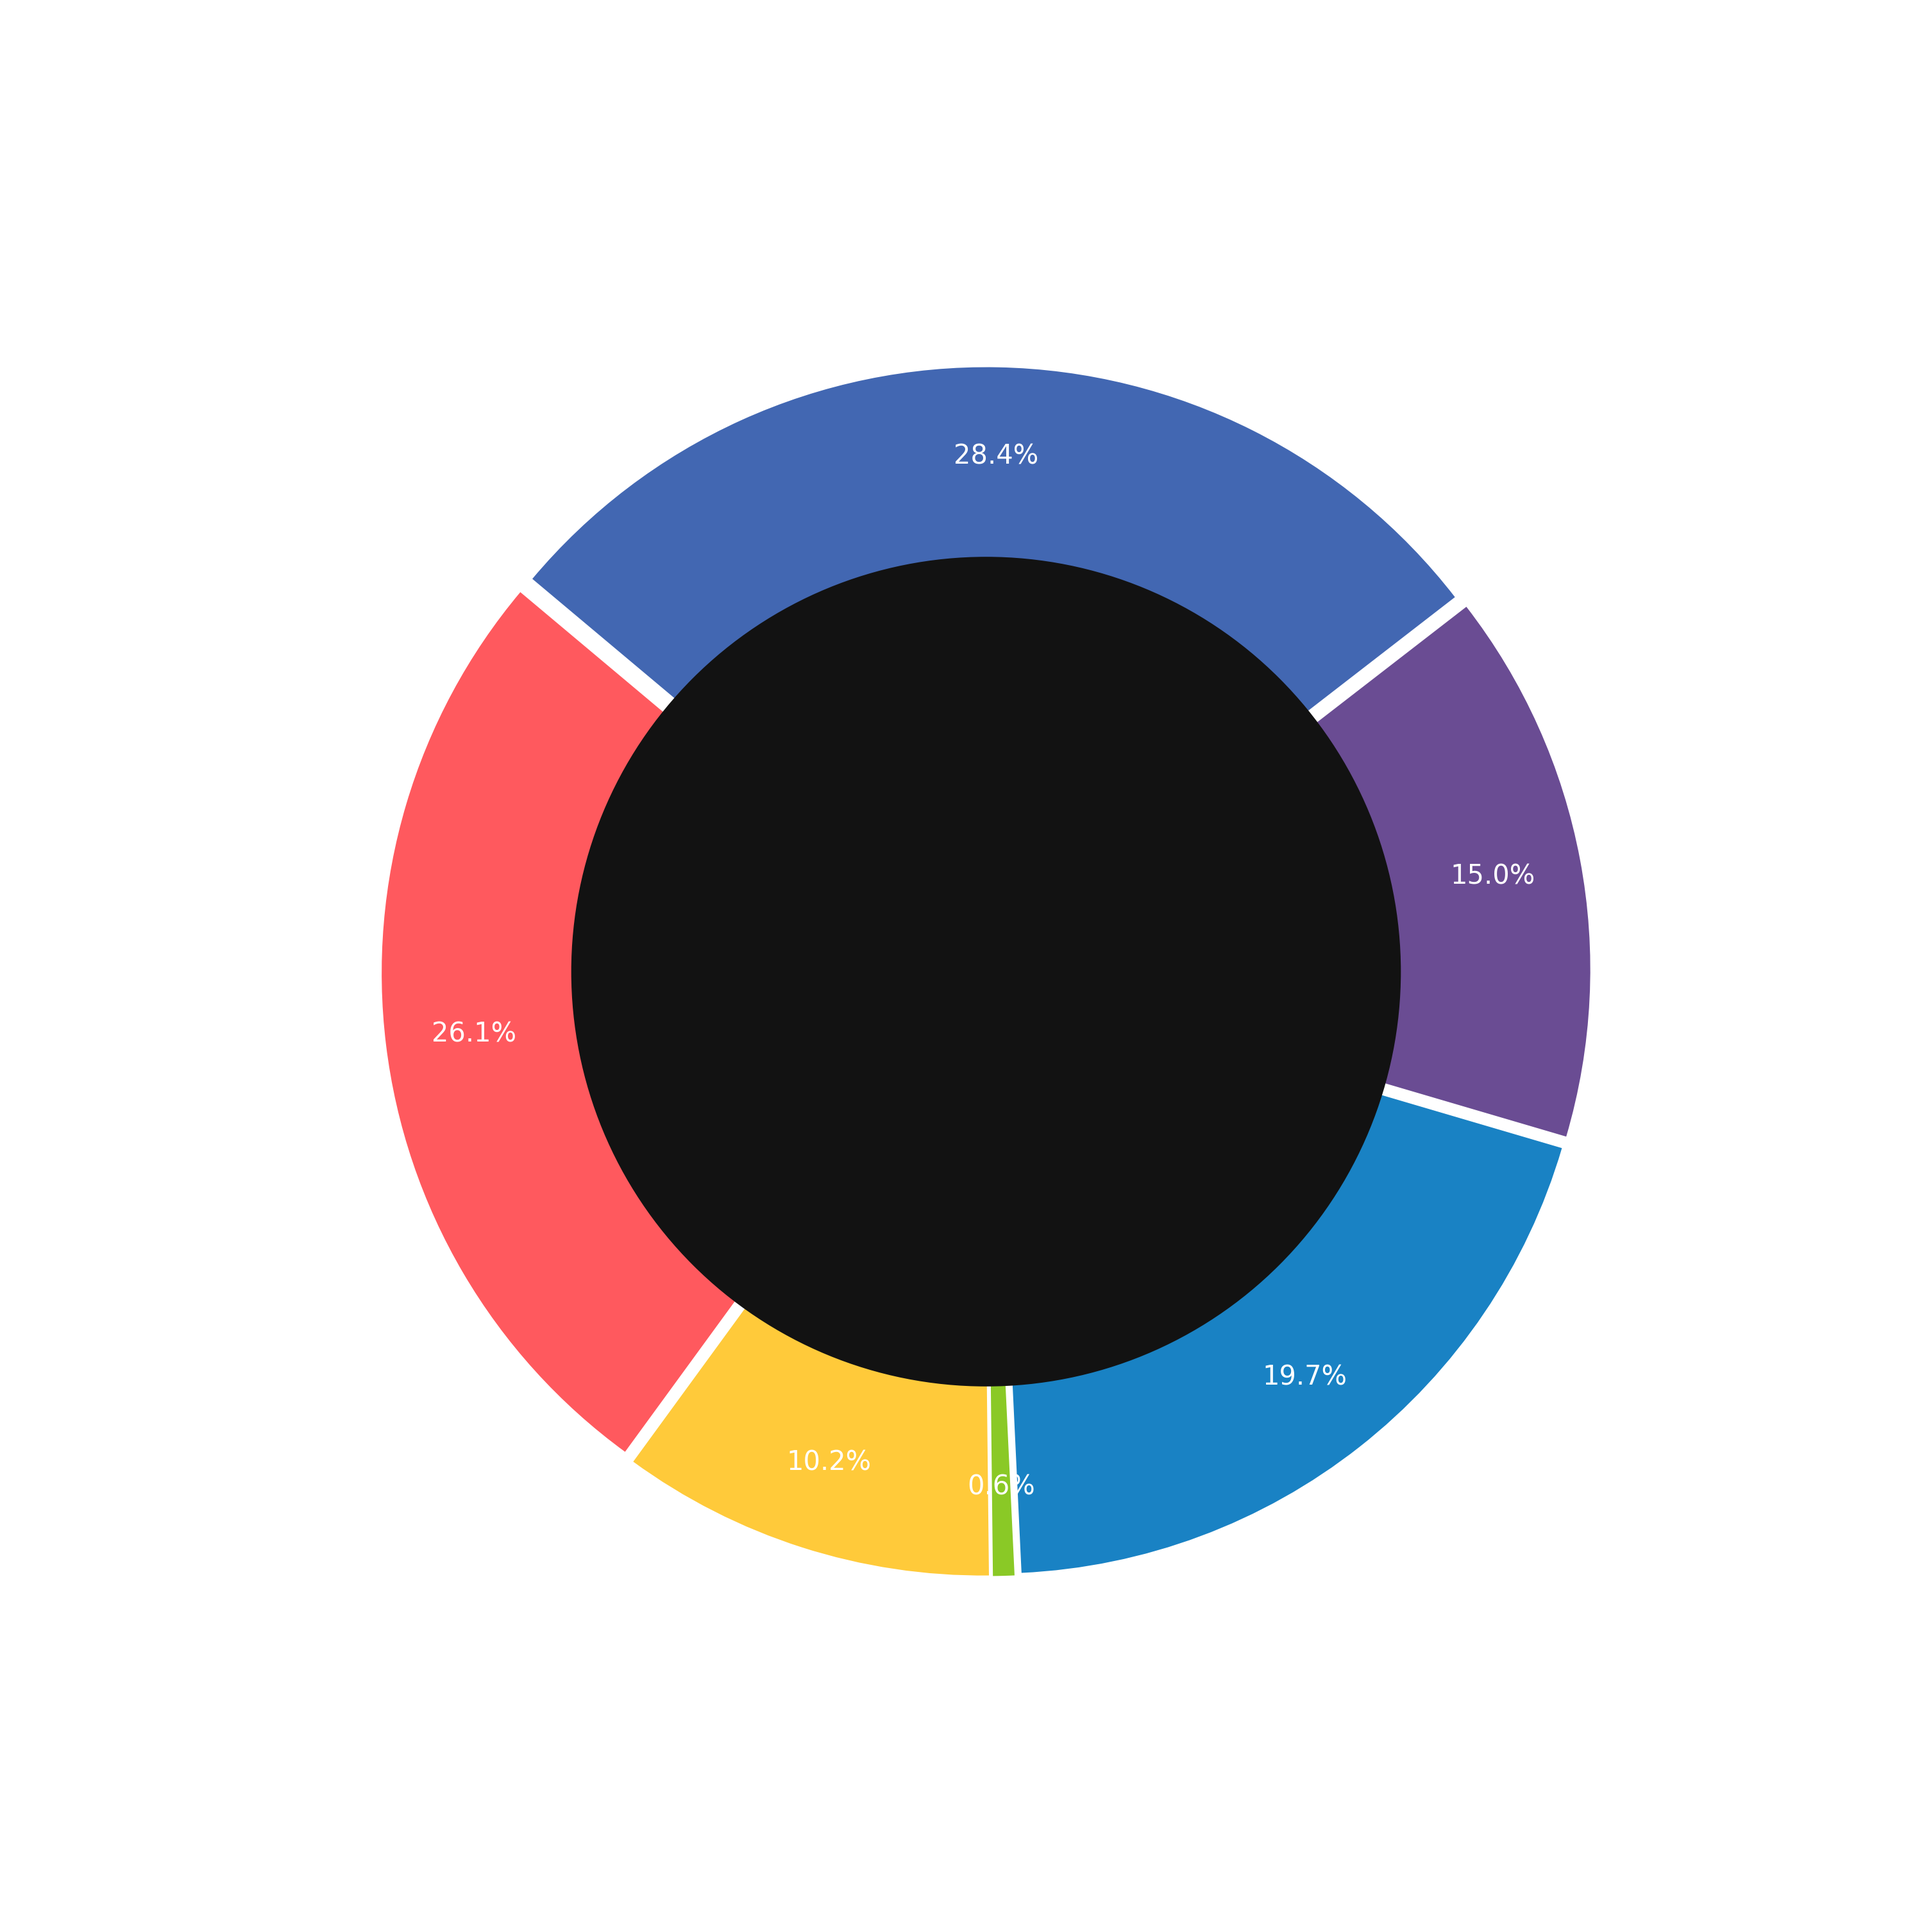
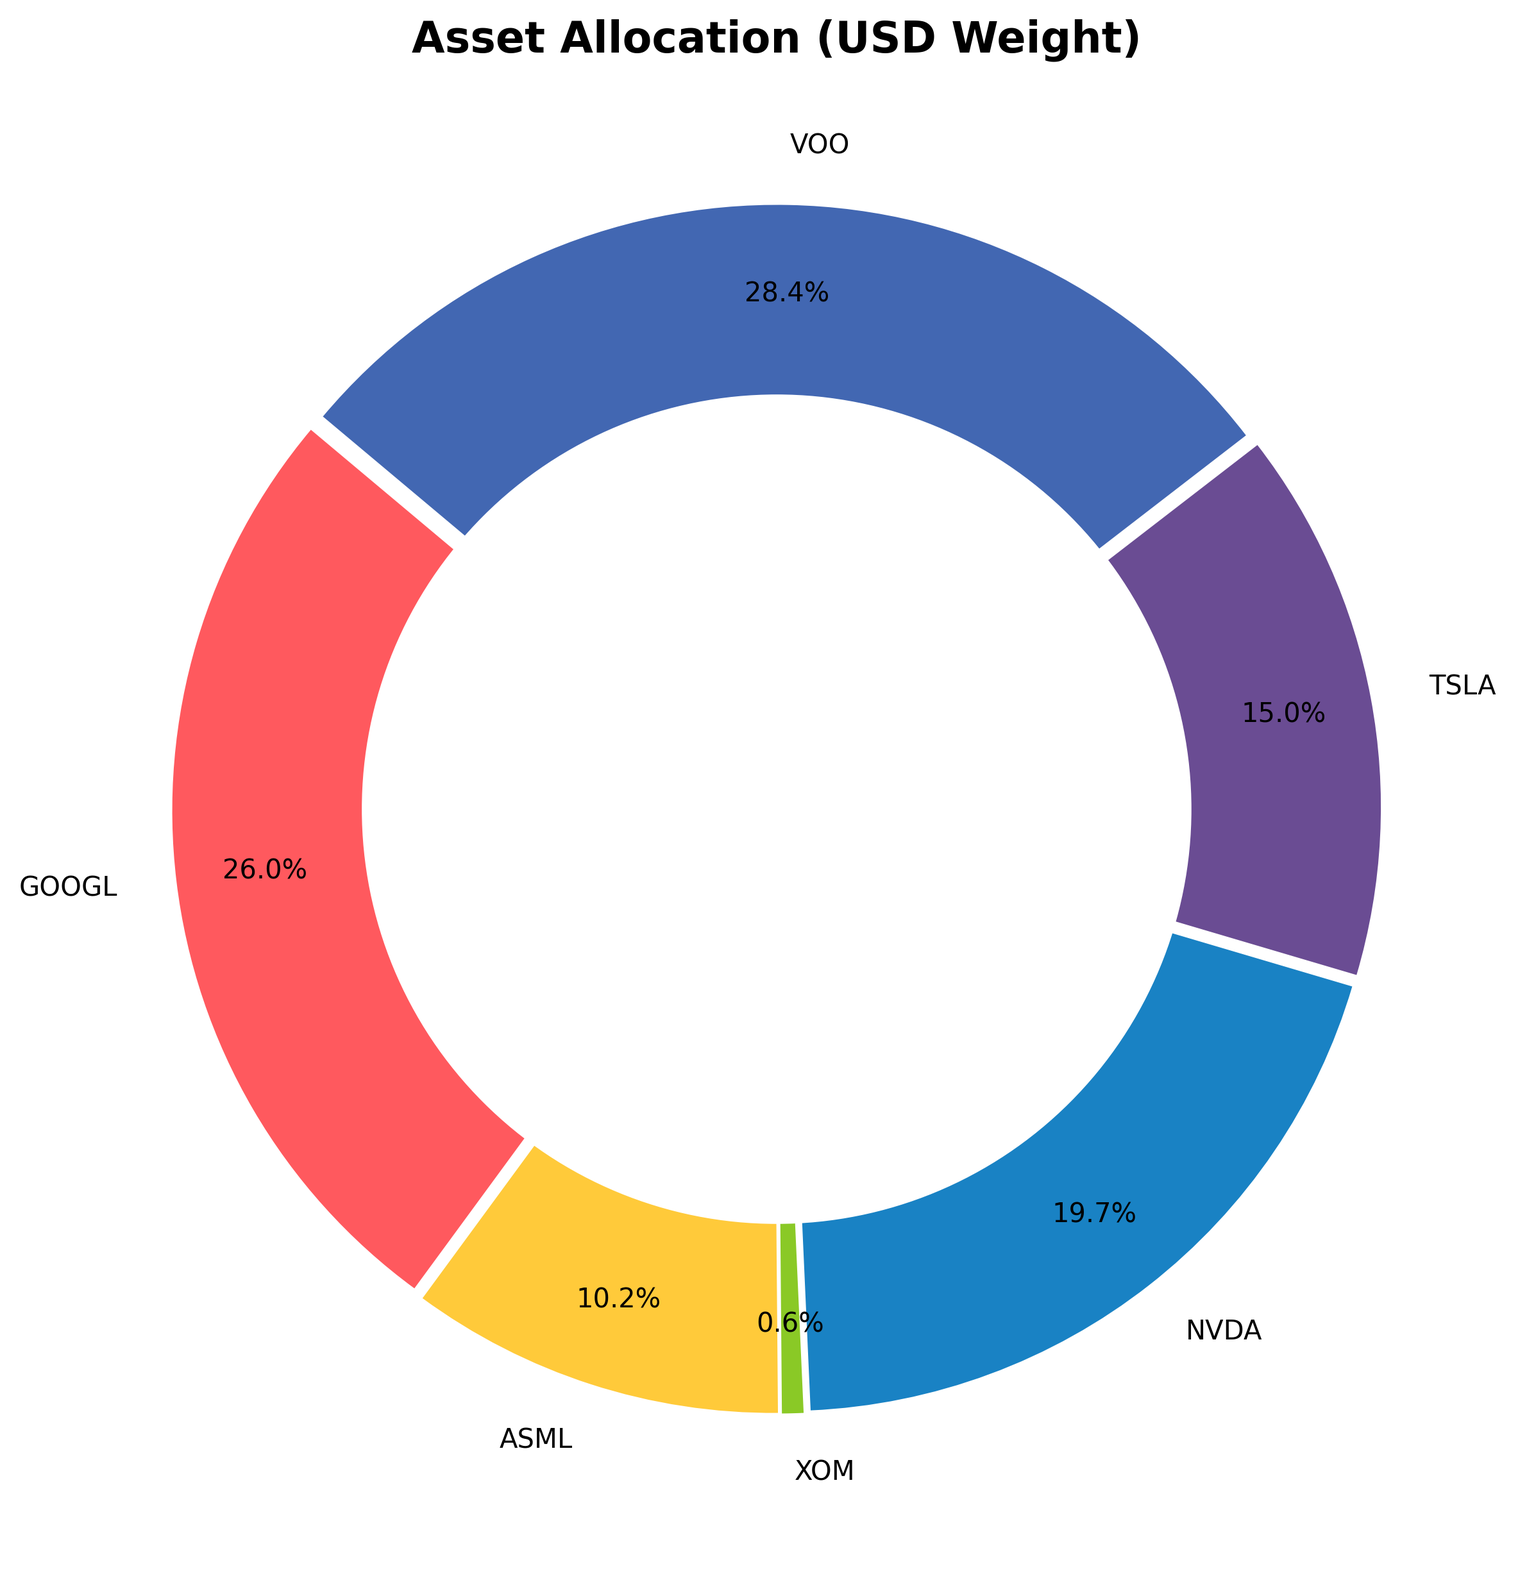
System Run: Analytics & Archive Update [skip ci]

diff --git a/README.md b/README.md
@@ -1,30 +1,27 @@
 # 📊 Portfolio Dashboard | מעקב תיק השקעות
-> **Last Update:** `09/03/2026 20:26` | **USD/ILS:** `₪3.104`
+**Last Update:** 09/03/2026 20:31 | **USD/ILS:** ₪3.104
 
-## 💎 Portfolio Summary | סיכום התיק
-| נתון | ערך | הסבר קצר |
+## 💰 Portfolio Summary | סיכום התיק
+| Metric | Value | נתון |
 | :--- | :--- | :--- |
-| **שווי נוכחי (ILS)** | `₪161,528` | השווי הכולל של התיק שלך בשקלים נכון לרגע זה. |
-| **רווח/הפסד כולל** | `+23.92%` | אחוז השינוי מההשקעה המקורית (Cost Basis). |
-| **Max Drawdown** | `-25.36%` | **מדד סיכון:** הירידה החדה ביותר שחווה התיק מהשיא שלו. |
+| **Current Value** | `₪161,550` | **שווי נוכחי** |
+| **Total Invested** | `₪130,366` | **סך השקעה** |
+| **Total Profit/Loss** | `+23.92%` (₪31,184) | **רווח/הפסד כולל** |
+| **Daily Change** | `+0.45%` | **שינוי יומי** |
 
 ## 📜 Holdings | פירוט החזקות
-| Ticker | Momentum | Shares | Price | P&L % |
-| :--- | :--- | :--- | :--- | :--- |
-| **GOOGL** | 🟩🟩🟩🟩🟩 | 45 | $301.07 | **+66.20%** |
-| **ASML** | 🟩🟩🟩🟩⬜ | 4 | $1,327.71 | **+42.08%** |
-| **XOM** | 🟩🟩⬜⬜⬜ | 2 | $151.80 | **+20.40%** |
-| **NVDA** | 🟩🟩⬜⬜⬜ | 57 | $180.05 | **+21.15%** |
-| **TSLA** | 🟥⬜⬜⬜⬜ | 20 | $391.42 | **-10.32%** |
-| **VOO** | 🟩⬜⬜⬜⬜ | 24 | $616.24 | **+16.85%** |
+| Ticker | Shares | Avg. Cost | Current Price | P&L % | P&L ILS |
+| :--- | :--- | :--- | :--- | :--- | :--- |
+| GOOGL | 45 | $181.15 | $301.17 | 🟢 +66.25% | ₪16,764 |
+| ASML | 4 | $934.51 | $1,327.77 | 🟢 +42.08% | ₪4,883 |
+| XOM | 2 | $126.08 | $151.93 | 🟢 +20.50% | ₪160 |
+| NVDA | 57 | $148.62 | $179.95 | 🟢 +21.08% | ₪5,543 |
+| TSLA | 20 | $436.45 | $391.27 | 🔴 -10.35% | ₪-2,805 |
+| VOO | 24 | $527.38 | $616.48 | 🟢 +16.89% | ₪6,638 |
 
-## 📈 Visual Analytics | ניתוח ויזואלי
+## 📈 Charts | גרפים
 ![Performance](./data_hub/portfolio_performance.png)
+![Allocation](./data_hub/asset_allocation.png)
 
 ---
-### 📔 מילון מונחים מקוצר:
-- **Momentum (הבר הוויזואלי):** ייצוג גרפי של ביצועי המניה. כל בלוק מייצג 10% רווח/הפסד.
-- **Normalized Performance:** השוואה של התיק ל-S&P 500 כאילו שניהם התחילו ב-100 נקודות.
-- **Drawdown (הגרף האדום):** מציג כמה התיק 'דימם' מהשיא שלו בכל נקודת זמן.
-
-*Created by Almog787*
+📂 *Created by Almog787*
